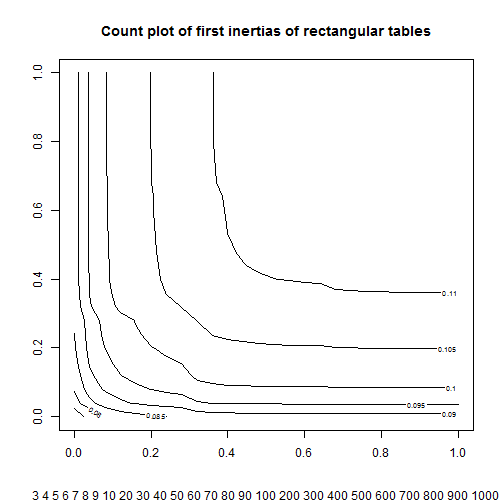
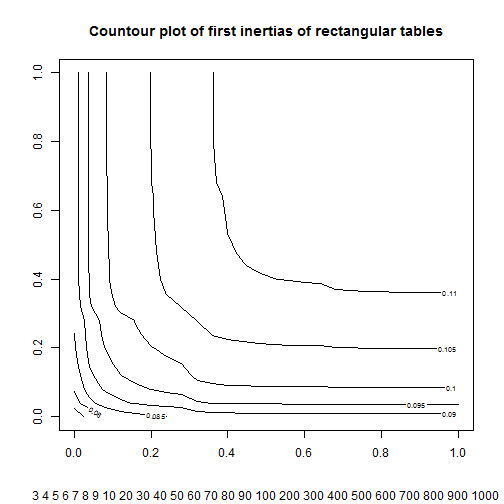
update readme

Changed region(s): [[0.1786, 0.0298, 0.8929, 0.0893]]

diff --git a/readme.md b/readme.md
@@ -74,7 +74,7 @@ plot_inertias(sq_first, sq_total, r = 1/3)
 
 ```r
 first <- inertias$first
-contour(first, main = "Count plot of first inertias of rectangular tables", sub = paste(colnames(first), collapse = " "))
+contour(first, main = "Countour plot of first inertias of rectangular tables", sub = paste(colnames(first), collapse = " "))
 ```
 
 ![plot of chunk unnamed-chunk-4](figure/unnamed-chunk-4-1.png)
